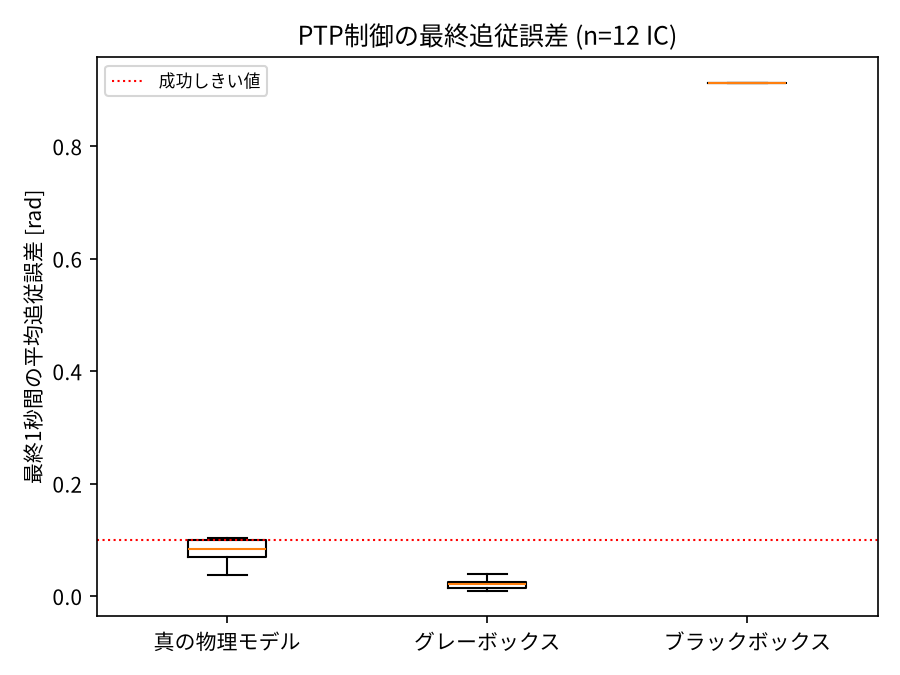
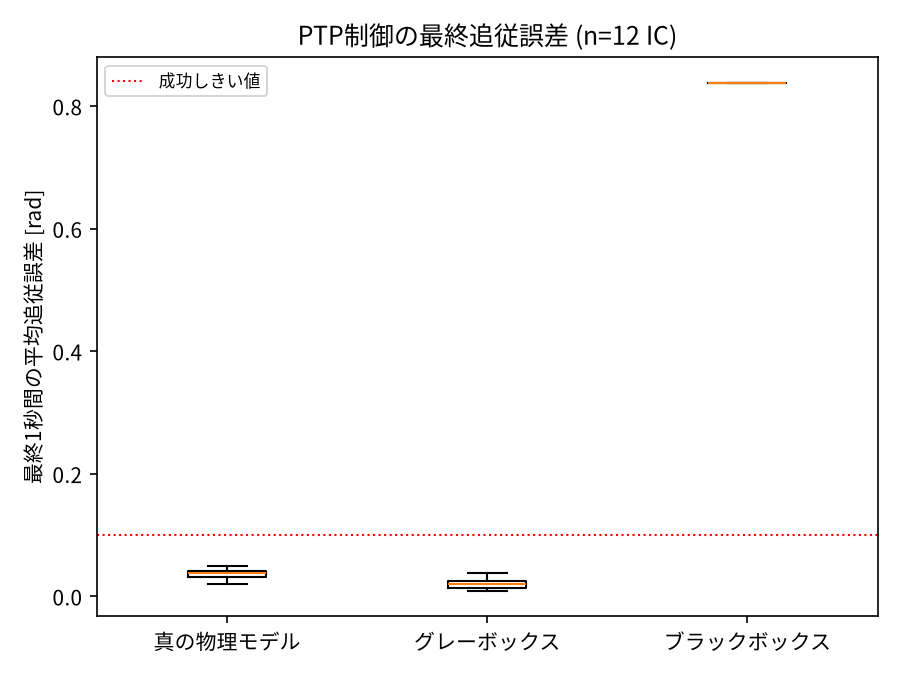
M4: INTEGRAL_CLIP引き上げによる真値の摩擦固着の解消 (#8)
M3 (#5) で判明した「joint2の積分項がINTEGRAL_CLIP=2.0の上限に張り付き、
生成トルクがクーロン摩擦(0.02)とほぼ同じ大きさにしかならず漸近的に
固着する」問題に対応。0.5刻みでスイープした結果、INTEGRAL_CLIP=4.0で
全12ICが解消(それ以上に上げても変化なし)することを確認し反映した。

固着していた代表IC(offset=(-0.5,+0.5))での回帰テストを追加。

evaluate_ptp.pyを再実行した結果:
- 真の物理モデル: 9/12→12/12(全IC成功)、誤差水準も0.037〜0.104から
  0.020〜0.050に改善
- グレーボックス: 12/12(変わらず、誤差水準も同程度0.009〜0.039)
- ブラックボックス: 依然として0/12(変わらず)

真値・グレーボックスの誤差がほぼ同オーダーに揃ったことで、M3で見えていた
「グレーボックスが真値より成功率が高い」という逆転は解消された。これは
その逆転が真の摩擦固着(制御則側の限界)によるものであり、グレーボックス
サロゲート自体の欠陥ではなかったことを裏付ける。

Refs #7

Claude-Session: https://claude.ai/code/session_01Rvrf6mcbh1UrexApn66z2b

diff --git a/tests/test_control.py b/tests/test_control.py
@@ -12,3 +12,15 @@ def test_ptp_controller_reaches_target_on_true_plant():
 
     final_error = np.abs(angular_error(traj[-50:, :2], target)).sum(axis=-1)
     assert final_error.mean() < 0.1
+
+
+def test_ptp_controller_does_not_stick_from_friction():
+    """M3 (#5) で摩擦固着によって目標に到達できなかったICが、INTEGRAL_CLIP引き上げ後
+    (M4 #7) は到達できること。"""
+    target = np.array([0.5, -0.5])
+    initial_state = np.array([0.0, 0.0, 0.0, 0.0])  # M3で固着した代表IC(offset=(-0.5,+0.5))
+
+    traj = run_ptp_true(initial_state, target, n_steps=1500, dt=0.02)  # 30秒
+
+    final_error = np.abs(angular_error(traj[-50:, :2], target)).sum(axis=-1)
+    assert final_error.mean() < 0.1

diff --git a/src/control.py b/src/control.py
@@ -19,7 +19,10 @@ KP = 6.0
 KI = 0.3
 KD = 6.0
 TAU_MAX = 1.0  # 学習データのTAU_RANGEと揃える(この範囲外は未学習領域になる)
-INTEGRAL_CLIP = 2.0
+# M4 (#7): 2.0では一部のICでjoint2の積分項がクリップに張り付き、生成トルクが
+# クーロン摩擦(0.02)とほぼ同じ大きさにしかならず漸近的に固着することが判明。
+# 4.0に引き上げて全12ICで解消することを確認(それ以上に上げても変化なし)。
+INTEGRAL_CLIP = 4.0
 
 
 def angular_error(q: np.ndarray, target: np.ndarray) -> np.ndarray:

diff --git a/README.md b/README.md
@@ -70,6 +70,10 @@ pip install -r requirements.txt
   見られたが、これは学習された摩擦残差が真のクーロン摩擦のスティクション(静止時の
   粘着による定常誤差)を完全には再現できておらず、真値が陥る定常誤差をたまたま
   回避しているためと考えられる(振り子プロジェクトM5/M12の楽観バイアスと同種の現象)。
+- **M4** (完了, #7): M3で見送っていた`INTEGRAL_CLIP`引き上げ(2.0→4.0)を実施し、
+  真の物理モデルの摩擦固着を解消。全12ICで真値・グレーボックスとも成功(12/12)
+  となり、誤差の水準もほぼ同オーダー(0.01〜0.05)に揃った。ブラックボックスは
+  依然として全12ICで破綻(0/12)。
 
 ## ディレクトリ構成
 
